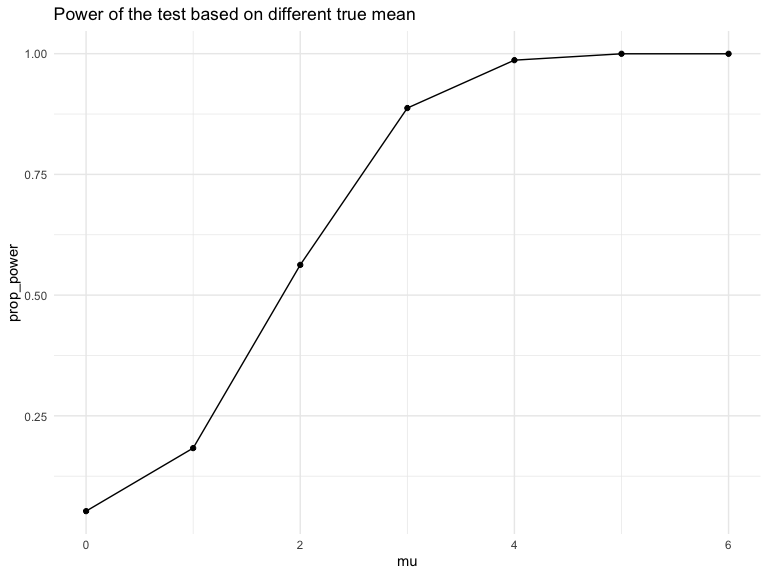
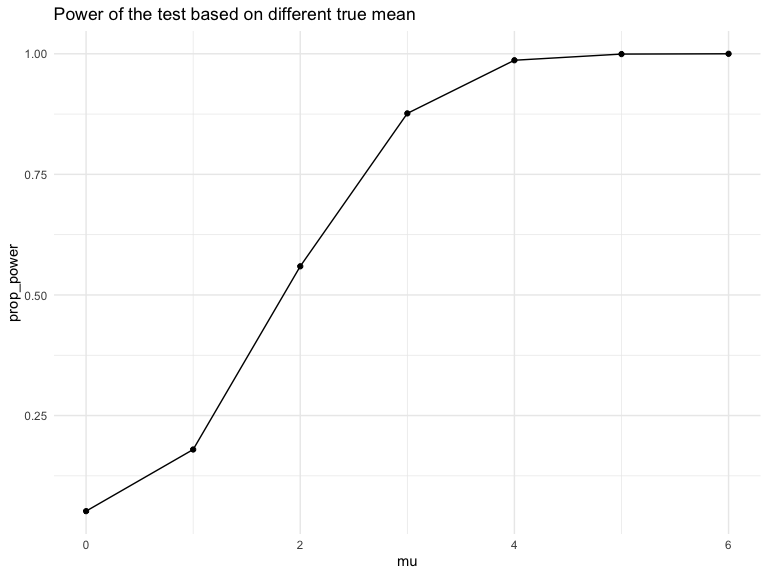
edit format

diff --git a/p8105_hw5_cy2751.md b/p8105_hw5_cy2751.md
@@ -63,16 +63,16 @@ output_0 %>% bind_rows()
     ## # A tibble: 5,000 × 4
     ##    estimate p.value power    mu
     ##       <dbl>   <dbl> <lgl> <dbl>
-    ##  1    0.715  0.481  FALSE     0
-    ##  2   -0.656  0.380  FALSE     0
-    ##  3   -1.35   0.171  FALSE     0
-    ##  4   -0.661  0.436  FALSE     0
-    ##  5   -1.72   0.0384 TRUE      0
-    ##  6    0.392  0.681  FALSE     0
-    ##  7    0.844  0.464  FALSE     0
-    ##  8    1.42   0.119  FALSE     0
-    ##  9   -0.401  0.613  FALSE     0
-    ## 10    1.07   0.199  FALSE     0
+    ##  1    0.908  0.250  FALSE     0
+    ##  2    1.87   0.0733 FALSE     0
+    ##  3    1.27   0.0882 FALSE     0
+    ##  4    0.261  0.813  FALSE     0
+    ##  5   -0.937  0.299  FALSE     0
+    ##  6   -1.21   0.131  FALSE     0
+    ##  7   -0.835  0.377  FALSE     0
+    ##  8    0.547  0.539  FALSE     0
+    ##  9    0.485  0.683  FALSE     0
+    ## 10    0.733  0.457  FALSE     0
     ## # ℹ 4,990 more rows
 
 ``` r
@@ -209,8 +209,10 @@ unsolved_homiside <- homicide %>%
 BalMD <- cases_table %>% 
   filter(city_state == "Baltimore, MD")
 
-(prop_test_BalMD <-
-  prop.test(x = BalMD %>% pull(unsolved_cases), n = BalMD %>% pull(total_cases)) %>%
+prop_test_BalMD <-
+  prop.test(x = BalMD %>% pull(unsolved_cases), n = BalMD %>% pull(total_cases))
+
+(prop_test_BalMD%>%
   broom::tidy() %>% 
   select(estimate,conf.low,conf.high) %>% 
   mutate(city = BalMD %>% select(city_state)) %>% 
@@ -227,7 +229,10 @@ est_and_CI <- function(state){
   
   City <- cases_table %>% filter(city_state == state)
   
-  prop.test(x = City %>% pull(unsolved_cases), n = City %>% pull(total_cases)) %>%
+  prop_result_all <-
+    prop.test(x = City %>% pull(unsolved_cases), n = City %>% pull(total_cases)) 
+  
+  prop_result_all%>%
   broom::tidy() %>% 
   select(estimate,conf.low,conf.high) %>% 
     mutate(city = City %>% select(city_state)) %>% 
